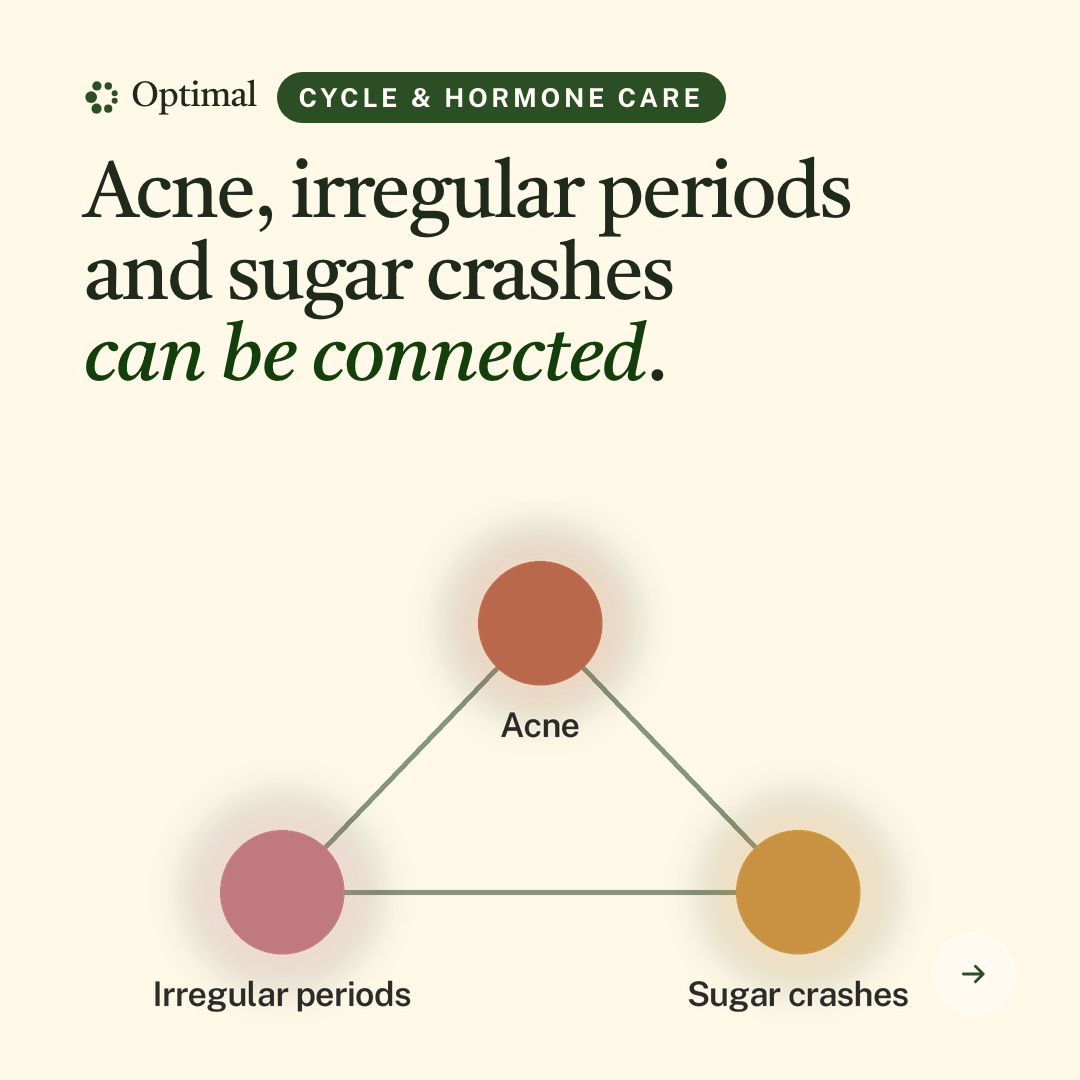
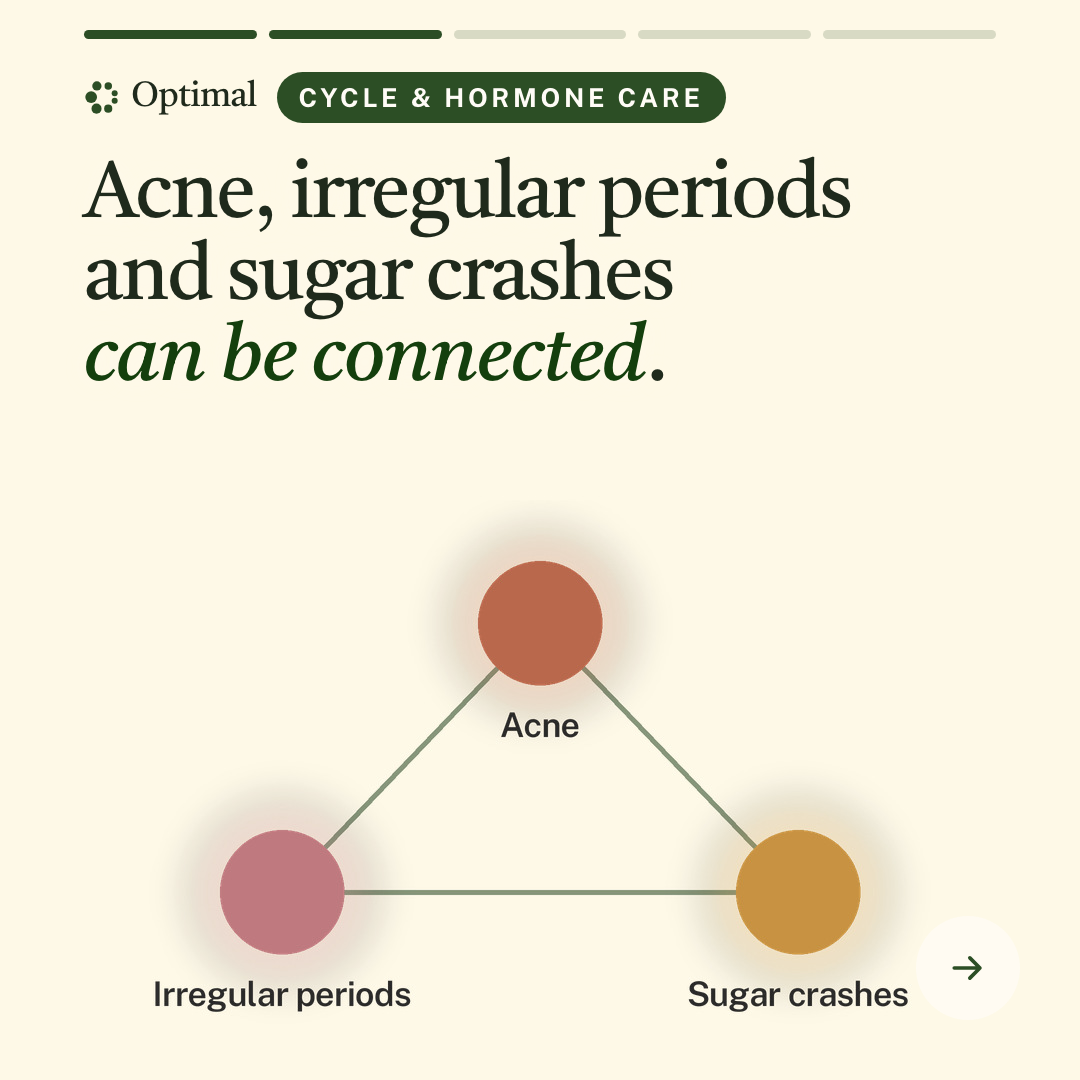
Hand-off site: ads updated Oct 22, 2026

Changed region(s): [[0.0917, 0.0306, 0.9167, 0.0611], [0.8861, 0.8861, 0.9167, 0.9167]]

diff --git a/index.html b/index.html
@@ -145,6 +145,11 @@
   .cards { display: grid; grid-template-columns: repeat(5, minmax(0, 1fr)); gap: 10px; margin: 12px 0 4px; }
   .cards img { width: 100%; aspect-ratio: 1 / 1; object-fit: cover; border-radius: 9px; border: 1px solid var(--line); display: block; }
   .cards figcaption { font-size: 12.5px; margin-top: 6px; color: var(--ink); }
+  .pill.fmt { background: var(--ink); color: var(--cream); }
+  .cards.seq figure { position: relative; margin: 0; }
+  .cards.seq figure:not(:last-child)::after { content: "→"; position: absolute; right: -9px; top: calc(50% - 40px); transform: translateX(50%);
+    width: 22px; height: 22px; border-radius: 50%; background: var(--ink); color: #fffcf7; font: 600 13px/22px "Public Sans", sans-serif; text-align: center; z-index: 2; }
+  .cards .cardno { display: block; font: 700 10.5px "Public Sans", sans-serif; letter-spacing: .08em; text-transform: uppercase; color: var(--muted, #76736D); margin-bottom: 2px; }
 
   /* how to launch */
   .howto details.box { background: var(--paper); border: 1px solid var(--line); border-radius: var(--r); padding: 16px 20px; margin-bottom: 10px; }
@@ -565,40 +570,40 @@ Book a free intro call with Cheryl, our care coordinator, to see if it&#x27;s a 
         <div class="twocol"><div class="field"><div class="flabel">Headline<button class="copy" data-copy="Cycle &amp; Hormone Care, now in Barrie">Copy</button></div><div class="val">Cycle &amp; Hormone Care, now in Barrie</div></div><div class="field"><div class="flabel">Description<button class="copy" data-copy="Free intro call · No referral">Copy</button></div><div class="val">Free intro call · No referral</div></div></div><div class="field"><div class="flabel">Alt headline<button class="copy" data-copy="Not just for menopause">Copy</button></div><div class="val">Not just for menopause</div></div>
       </div>
     </article>
-    <div class="group"><h3>Static ads</h3><span>Each single stands on its own: one sentence, one Hormozi lever. 1:1, 9:16 and 1.91:1. AI label on for CS3 and CS5 (engravings).</span></div>
+    <div class="group"><h3>Single-image ads: 4 separate ads</h3><span>Each one is its own ad and makes sense alone: one sentence, one Hormozi lever. Upload its 1:1, 9:16 and 1.91:1 files as one ad. AI label on for CS3 and CS5 (engravings).</span></div>
     <div class="grid">
       <article class="card tile isnew" id="CS3">
         <img src="static-ads/r9/thumbs/CS3.jpg" alt="CS3" loading="lazy">
-        <div class="tbody"><div><span class="pill hold">Waiting on the landing page</span> <span class="pill new">New</span></div><h4><span class="id">CS3</span>Painful, heavy or missing periods deserve a proper look.</h4><span class="when">Added <b>Oct 22</b></span>
+        <div class="tbody"><div><span class="pill fmt">Single image · its own ad</span> <span class="pill hold">Waiting on the landing page</span> <span class="pill new">New</span></div><h4><span class="id">CS3</span>Painful, heavy or missing periods deserve a proper look.</h4><span class="when">Added <b>Oct 22</b></span>
           <div class="dls"><a class="dl primary" href="static-ads/r9/CS3_1x1.png" download><span>1:1</span><em>621 KB</em></a><a class="dl" href="static-ads/r9/CS3_9x16.png" download><span>9:16</span><em>628 KB</em></a><a class="dl" href="static-ads/r9/CS3_1-91x1.png" download><span>1.91:1</span><em>834 KB</em></a></div>
           <details class="more"><summary>Ad copy</summary><div class="field"><div class="flabel">Primary text<button class="copy" data-copy="Painful, heavy or missing periods are common, but they deserve a proper look. Our nurse practitioner assesses pain, bleeding and iron, and arranges imaging or a referral when it&#x27;s needed. Start with the free 3-minute Cycle Check. No referral needed.">Copy</button></div><textarea readonly rows="4">Painful, heavy or missing periods are common, but they deserve a proper look. Our nurse practitioner assesses pain, bleeding and iron, and arranges imaging or a referral when it&#x27;s needed. Start with the free 3-minute Cycle Check. No referral needed.</textarea></div><div class="field"><div class="flabel">Headline<button class="copy" data-copy="Periods deserve a proper look">Copy</button></div><div class="val">Periods deserve a proper look</div></div><div class="field"><div class="flabel">Description<button class="copy" data-copy="Free 3-min Cycle Check · Barrie">Copy</button></div><div class="val">Free 3-min Cycle Check · Barrie</div></div></details>
         </div>
       </article>
       <article class="card tile isnew" id="CS4">
         <img src="static-ads/r9/thumbs/CS4.jpg" alt="CS4" loading="lazy">
-        <div class="tbody"><div><span class="pill hold">Waiting on the landing page</span> <span class="pill new">New</span></div><h4><span class="id">CS4</span>12 weeks to a plan you understand.</h4><span class="when">Added <b>Oct 22</b></span>
+        <div class="tbody"><div><span class="pill fmt">Single image · its own ad</span> <span class="pill hold">Waiting on the landing page</span> <span class="pill new">New</span></div><h4><span class="id">CS4</span>12 weeks to a plan you understand.</h4><span class="when">Added <b>Oct 22</b></span>
           <div class="dls"><a class="dl primary" href="static-ads/r9/CS4_1x1.png" download><span>1:1</span><em>219 KB</em></a><a class="dl" href="static-ads/r9/CS4_9x16.png" download><span>9:16</span><em>248 KB</em></a><a class="dl" href="static-ads/r9/CS4_1-91x1.png" download><span>1.91:1</span><em>217 KB</em></a></div>
           <details class="more"><summary>Ad copy</summary><div class="field"><div class="flabel">Primary text<button class="copy" data-copy="In 12 weeks, find out what&#x27;s driving cycle and hormone symptoms and leave with a plan you understand: a 60-minute nurse practitioner visit, bloodwork timed to your cycle, two InBody scans and two follow-ups. Start with the free 3-minute Cycle Check.">Copy</button></div><textarea readonly rows="4">In 12 weeks, find out what&#x27;s driving cycle and hormone symptoms and leave with a plan you understand: a 60-minute nurse practitioner visit, bloodwork timed to your cycle, two InBody scans and two follow-ups. Start with the free 3-minute Cycle Check.</textarea></div><div class="field"><div class="flabel">Headline<button class="copy" data-copy="12 weeks to a clear plan">Copy</button></div><div class="val">12 weeks to a clear plan</div></div><div class="field"><div class="flabel">Description<button class="copy" data-copy="NP-led · Barrie · No referral">Copy</button></div><div class="val">NP-led · Barrie · No referral</div></div></details>
         </div>
       </article>
       <article class="card tile isnew" id="CS5">
         <img src="static-ads/r9/thumbs/CS5.jpg" alt="CS5" loading="lazy">
-        <div class="tbody"><div><span class="pill hold">Waiting on the landing page</span> <span class="pill new">New</span></div><h4><span class="id">CS5</span>Bloodwork timed to your cycle, covered by OHIP.</h4><span class="when">Added <b>Oct 22</b></span>
+        <div class="tbody"><div><span class="pill fmt">Single image · its own ad</span> <span class="pill hold">Waiting on the landing page</span> <span class="pill new">New</span></div><h4><span class="id">CS5</span>Bloodwork timed to your cycle, covered by OHIP.</h4><span class="when">Added <b>Oct 22</b></span>
           <div class="dls"><a class="dl primary" href="static-ads/r9/CS5_1x1.png" download><span>1:1</span><em>678 KB</em></a><a class="dl" href="static-ads/r9/CS5_9x16.png" download><span>9:16</span><em>678 KB</em></a><a class="dl" href="static-ads/r9/CS5_1-91x1.png" download><span>1.91:1</span><em>952 KB</em></a></div>
           <details class="more"><summary>Ad copy</summary><div class="field"><div class="flabel">Primary text<button class="copy" data-copy="Some hormone tests only make sense on certain days of the cycle, so we time the bloodwork to it. OHIP covers the bloodwork, and our nurse practitioner walks through every result with you in a 60-minute visit. Start with the free 3-minute Cycle Check.">Copy</button></div><textarea readonly rows="4">Some hormone tests only make sense on certain days of the cycle, so we time the bloodwork to it. OHIP covers the bloodwork, and our nurse practitioner walks through every result with you in a 60-minute visit. Start with the free 3-minute Cycle Check.</textarea></div><div class="field"><div class="flabel">Headline<button class="copy" data-copy="Bloodwork timed to your cycle">Copy</button></div><div class="val">Bloodwork timed to your cycle</div></div><div class="field"><div class="flabel">Description<button class="copy" data-copy="OHIP-covered · NP-reviewed · Barrie">Copy</button></div><div class="val">OHIP-covered · NP-reviewed · Barrie</div></div></details>
         </div>
       </article>
       <article class="card tile isnew" id="CS6">
         <img src="static-ads/r9/thumbs/CS6.jpg" alt="CS6" loading="lazy">
-        <div class="tbody"><div><span class="pill hold">Waiting on the landing page</span> <span class="pill new">New</span></div><h4><span class="id">CS6</span>Nurse practitioner care for PCOS, PMDD and endometriosis, no referral needed.</h4><span class="when">Added <b>Oct 22</b></span>
+        <div class="tbody"><div><span class="pill fmt">Single image · its own ad</span> <span class="pill hold">Waiting on the landing page</span> <span class="pill new">New</span></div><h4><span class="id">CS6</span>Nurse practitioner care for PCOS, PMDD and endometriosis, no referral needed.</h4><span class="when">Added <b>Oct 22</b></span>
           <div class="dls"><a class="dl primary" href="static-ads/r9/CS6_1x1.png" download><span>1:1</span><em>756 KB</em></a><a class="dl" href="static-ads/r9/CS6_9x16.png" download><span>9:16</span><em>1 MB</em></a><a class="dl" href="static-ads/r9/CS6_1-91x1.png" download><span>1.91:1</span><em>1 MB</em></a></div>
           <details class="more"><summary>Ad copy</summary><div class="field"><div class="flabel">Primary text<button class="copy" data-copy="Cycle &amp; Hormone Care in Barrie for PCOS/PMOS, PMS/PMDD, endometriosis and adenomyosis, irregular periods, and hormonal acne or hair changes. The same nurse practitioner every visit. No referral needed. Start with the free 3-minute Cycle Check.">Copy</button></div><textarea readonly rows="4">Cycle &amp; Hormone Care in Barrie for PCOS/PMOS, PMS/PMDD, endometriosis and adenomyosis, irregular periods, and hormonal acne or hair changes. The same nurse practitioner every visit. No referral needed. Start with the free 3-minute Cycle Check.</textarea></div><div class="field"><div class="flabel">Headline<button class="copy" data-copy="No referral needed">Copy</button></div><div class="val">No referral needed</div></div><div class="field"><div class="flabel">Description<button class="copy" data-copy="PCOS · PMDD · Endometriosis · Barrie">Copy</button></div><div class="val">PCOS · PMDD · Endometriosis · Barrie</div></div></details>
         </div>
       </article></div>
     
-    <div class="group"><h3>Carousel</h3><span>Five 1:1 cards, uploaded as ONE carousel ad, in this order. Use each card's headline; the primary text is shared.</span></div>
-    <article class="card carousel" id="CC"><span class="pill hold">Waiting on the landing page</span> <span class="pill new">New</span><h3 style="margin-top:6px"><span class="id">CC1–CC5</span>Cycle &amp; Hormone Care carousel</h3><span class="when">Added <b>Oct 22</b></span>
-      <div class="cards"><figure><img src="static-ads/r9/thumbs/CC1.jpg" alt="CC1" loading="lazy"><figcaption><b>CC1</b> · Common isn&#x27;t the same as normal<div class="dls"><a class="dl primary" href="static-ads/r9/CC1_card1_1x1.png" download><span>Card</span><em>1 MB</em></a></div></figcaption></figure><figure><img src="static-ads/r9/thumbs/CC2.jpg" alt="CC2" loading="lazy"><figcaption><b>CC2</b> · Symptoms can share a cause<div class="dls"><a class="dl primary" href="static-ads/r9/CC2_card2_1x1.png" download><span>Card</span><em>251 KB</em></a></div></figcaption></figure><figure><img src="static-ads/r9/thumbs/CC3.jpg" alt="CC3" loading="lazy"><figcaption><b>CC3</b> · Bloodwork timed to your cycle<div class="dls"><a class="dl primary" href="static-ads/r9/CC3_card3_1x1.png" download><span>Card</span><em>686 KB</em></a></div></figcaption></figure><figure><img src="static-ads/r9/thumbs/CC4.jpg" alt="CC4" loading="lazy"><figcaption><b>CC4</b> · 12 weeks to a clear plan<div class="dls"><a class="dl primary" href="static-ads/r9/CC4_card4_1x1.png" download><span>Card</span><em>220 KB</em></a></div></figcaption></figure><figure><img src="static-ads/r9/thumbs/CC5.jpg" alt="CC5" loading="lazy"><figcaption><b>CC5</b> · Take the free 3-min Cycle Check<div class="dls"><a class="dl primary" href="static-ads/r9/CC5_card5_1x1.png" download><span>Card</span><em>934 KB</em></a></div></figcaption></figure></div><div class="field"><div class="flabel">Primary text<button class="copy" data-copy="“It&#x27;s just part of being a woman.” Not always. Painful, heavy or irregular periods, acne, sugar crashes and mood that crashes before a period can be connected, and they deserve a proper look. Swipe to see how Optimal&#x27;s Cycle &amp; Hormone Care program in Barrie works, then start with the free 3-minute Cycle Check. No referral needed.">Copy</button></div><textarea readonly rows="3">“It&#x27;s just part of being a woman.” Not always. Painful, heavy or irregular periods, acne, sugar crashes and mood that crashes before a period can be connected, and they deserve a proper look. Swipe to see how Optimal&#x27;s Cycle &amp; Hormone Care program in Barrie works, then start with the free 3-minute Cycle Check. No referral needed.</textarea></div></article>
+    <div class="group"><h3>Carousel ad: 1 ad, 5 cards</h3><span>These five are NOT separate ads. In Ads Manager pick the <b>Carousel</b> format and add the cards in this order (1 → 5), each with its card headline. The primary text is shared. Every card shows a Stories-style progress bar, and card 1 says "Swipe".</span></div>
+    <article class="card carousel" id="CC"><span class="pill fmt">Carousel · 1 ad · 5 cards</span> <span class="pill hold">Waiting on the landing page</span> <span class="pill new">New</span><h3 style="margin-top:6px"><span class="id">CC1–CC5</span>Cycle &amp; Hormone Care carousel</h3><span class="when">Added <b>Oct 22</b></span>
+      <div class="cards seq"><figure><img src="static-ads/r9/thumbs/CC1.jpg" alt="CC1" loading="lazy"><figcaption><span class="cardno">Card 1 of 5</span><b>CC1</b> · Common isn&#x27;t the same as normal<div class="dls"><a class="dl primary" href="static-ads/r9/CC1_card1_1x1.png" download><span>Card</span><em>1 MB</em></a></div></figcaption></figure><figure><img src="static-ads/r9/thumbs/CC2.jpg" alt="CC2" loading="lazy"><figcaption><span class="cardno">Card 2 of 5</span><b>CC2</b> · Symptoms can share a cause<div class="dls"><a class="dl primary" href="static-ads/r9/CC2_card2_1x1.png" download><span>Card</span><em>252 KB</em></a></div></figcaption></figure><figure><img src="static-ads/r9/thumbs/CC3.jpg" alt="CC3" loading="lazy"><figcaption><span class="cardno">Card 3 of 5</span><b>CC3</b> · Bloodwork timed to your cycle<div class="dls"><a class="dl primary" href="static-ads/r9/CC3_card3_1x1.png" download><span>Card</span><em>687 KB</em></a></div></figcaption></figure><figure><img src="static-ads/r9/thumbs/CC4.jpg" alt="CC4" loading="lazy"><figcaption><span class="cardno">Card 4 of 5</span><b>CC4</b> · 12 weeks to a clear plan<div class="dls"><a class="dl primary" href="static-ads/r9/CC4_card4_1x1.png" download><span>Card</span><em>221 KB</em></a></div></figcaption></figure><figure><img src="static-ads/r9/thumbs/CC5.jpg" alt="CC5" loading="lazy"><figcaption><span class="cardno">Card 5 of 5</span><b>CC5</b> · Take the free 3-min Cycle Check<div class="dls"><a class="dl primary" href="static-ads/r9/CC5_card5_1x1.png" download><span>Card</span><em>928 KB</em></a></div></figcaption></figure></div><div class="field"><div class="flabel">Primary text (shared by all 5 cards)<button class="copy" data-copy="“It&#x27;s just part of being a woman.” Not always. Painful, heavy or irregular periods, acne, sugar crashes and mood that crashes before a period can be connected, and they deserve a proper look. Swipe to see how Optimal&#x27;s Cycle &amp; Hormone Care program in Barrie works, then start with the free 3-minute Cycle Check. No referral needed.">Copy</button></div><textarea readonly rows="3">“It&#x27;s just part of being a woman.” Not always. Painful, heavy or irregular periods, acne, sugar crashes and mood that crashes before a period can be connected, and they deserve a proper look. Swipe to see how Optimal&#x27;s Cycle &amp; Hormone Care program in Barrie works, then start with the free 3-minute Cycle Check. No referral needed.</textarea></div></article>
     <div class="group"><h3>Google Ads (Search)</h3><span>Campaign <code>CHC · Cycle &amp; Hormone Care · Barrie · Search</code>: four ad groups, one RSA each. Full build sheet with settings, sitelinks, callouts and negatives: <a href="files/GOOGLE-ADS-CYCLE.md" target="_blank" rel="noopener">GOOGLE-ADS-CYCLE.md</a>.</span></div>
     <div class="grid">
       <article class="card tile isnew" id="CG1">

diff --git a/template.html b/template.html
@@ -145,6 +145,11 @@
   .cards { display: grid; grid-template-columns: repeat(5, minmax(0, 1fr)); gap: 10px; margin: 12px 0 4px; }
   .cards img { width: 100%; aspect-ratio: 1 / 1; object-fit: cover; border-radius: 9px; border: 1px solid var(--line); display: block; }
   .cards figcaption { font-size: 12.5px; margin-top: 6px; color: var(--ink); }
+  .pill.fmt { background: var(--ink); color: var(--cream); }
+  .cards.seq figure { position: relative; margin: 0; }
+  .cards.seq figure:not(:last-child)::after { content: "→"; position: absolute; right: -9px; top: calc(50% - 40px); transform: translateX(50%);
+    width: 22px; height: 22px; border-radius: 50%; background: var(--ink); color: #fffcf7; font: 600 13px/22px "Public Sans", sans-serif; text-align: center; z-index: 2; }
+  .cards .cardno { display: block; font: 700 10.5px "Public Sans", sans-serif; letter-spacing: .08em; text-transform: uppercase; color: var(--muted, #76736D); margin-bottom: 2px; }
 
   /* how to launch */
   .howto details.box { background: var(--paper); border: 1px solid var(--line); border-radius: var(--r); padding: 16px 20px; margin-bottom: 10px; }
@@ -246,7 +251,7 @@
     <div class="setup">{{CYCLE_SETUP}}</div>
     <div class="group"><h3>Video ads</h3><span>9:16, 1:1 and 1.91:1 per ad. Each opens with the CYCLE &amp; HORMONE CARE badge.</span></div>
     {{CYCLE_VIDEOS}}
-    <div class="group"><h3>Static ads</h3><span>Each single stands on its own: one sentence, one Hormozi lever. 1:1, 9:16 and 1.91:1. AI label on for CS3 and CS5 (engravings).</span></div>
+    <div class="group"><h3>Single-image ads: 4 separate ads</h3><span>Each one is its own ad and makes sense alone: one sentence, one Hormozi lever. Upload its 1:1, 9:16 and 1.91:1 files as one ad. AI label on for CS3 and CS5 (engravings).</span></div>
     <div class="grid">{{CYCLE_STATICS}}</div>
     {{CYCLE_CAROUSEL}}
     <div class="group"><h3>Google Ads (Search)</h3><span>Campaign <code>CHC · Cycle &amp; Hormone Care · Barrie · Search</code>: four ad groups, one RSA each. Full build sheet with settings, sitelinks, callouts and negatives: <a href="files/GOOGLE-ADS-CYCLE.md" target="_blank" rel="noopener">GOOGLE-ADS-CYCLE.md</a>.</span></div>

diff --git a/build.py b/build.py
@@ -520,7 +520,7 @@ def build():
     </article>''')
 
     # ---------------- static ads
-    def static_tile(ad, title, primary, headline, description, imgs, round_key, extra="", svc=None):
+    def static_tile(ad, title, primary, headline, description, imgs, round_key, extra="", svc=None, fmt=""):
         files = []
         for label, src in imgs:
             rel = put(src, f"static-ads/{round_key}/{os.path.basename(src)}")
@@ -534,7 +534,7 @@ def build():
         return f'''
       <article class="card tile{" isnew" if isnew else ""}" id="{ad}">
         <img src="{th}" alt="{esc(ad)}" loading="lazy">
-        <div class="tbody"><div>{status(ad)} {newpill}</div><h4><span class="id">{ad}</span>{esc(title)}</h4>{whenline}
+        <div class="tbody"><div>{f'<span class="pill fmt">{esc(fmt)}</span> ' if fmt else ""}{status(ad)} {newpill}</div><h4><span class="id">{ad}</span>{esc(title)}</h4>{whenline}
           <div class="dls">{"".join(files)}</div>
           <details class="more"><summary>Ad copy</summary>{copy_field("Primary text", primary, 4)}{copy_field("Headline", headline)}{desc}{extra}</details>
         </div>
@@ -623,7 +623,7 @@ def build():
     cdir = os.path.join(sdir, "r9", "cycle")
     cyc = cycle_copy()
     cycle_statics = [static_tile(ad, cyc[ad]["title"], cyc[ad]["primary"], cyc[ad]["headline"], cyc[ad]["description"],
-                                 simgs(cdir, ad), "r9", svc="cycle") for ad in sorted(cyc)]
+                                 simgs(cdir, ad), "r9", svc="cycle", fmt="Single image · its own ad") for ad in sorted(cyc)]
     cc = cycle_carousel()
     cards = []
     for i, (cid, onimg, chead) in enumerate(cc["cards"], 1):
@@ -631,14 +631,14 @@ def build():
         rel = put(src, f"static-ads/r9/{os.path.basename(src)}")
         zips["r9"].append((src, f"CC carousel/{os.path.basename(src)}"))
         th = thumb(src, f"static-ads/r9/thumbs/{cid}.jpg", 360)
-        cards.append(f'<figure><img src="{th}" alt="{cid}" loading="lazy"><figcaption><b>{cid}</b> · {esc(chead)}'
-                     f'<div class="dls">{dl(rel, "Card", mb(src), True)}</div></figcaption></figure>')
+        cards.append(f'<figure><img src="{th}" alt="{cid}" loading="lazy"><figcaption><span class="cardno">Card {i} of {len(cc["cards"])}</span>'
+                     f'<b>{cid}</b> · {esc(chead)}<div class="dls">{dl(rel, "Card", mb(src), True)}</div></figcaption></figure>')
     isnew, newpill, whenline = when("CC")
     n["cycle"] += 1
     cycle_carousel_html = f'''
-    <div class="group"><h3>Carousel</h3><span>Five 1:1 cards, uploaded as ONE carousel ad, in this order. Use each card's headline; the primary text is shared.</span></div>
-    <article class="card carousel" id="CC">{status("CC")} {newpill}<h3 style="margin-top:6px"><span class="id">CC1–CC5</span>Cycle &amp; Hormone Care carousel</h3>{whenline}
-      <div class="cards">{"".join(cards)}</div>{copy_field("Primary text", cc["primary"], 3)}</article>'''
+    <div class="group"><h3>Carousel ad: 1 ad, 5 cards</h3><span>These five are NOT separate ads. In Ads Manager pick the <b>Carousel</b> format and add the cards in this order (1 → 5), each with its card headline. The primary text is shared. Every card shows a Stories-style progress bar, and card 1 says "Swipe".</span></div>
+    <article class="card carousel" id="CC"><span class="pill fmt">Carousel · 1 ad · 5 cards</span> {status("CC")} {newpill}<h3 style="margin-top:6px"><span class="id">CC1–CC5</span>Cycle &amp; Hormone Care carousel</h3>{whenline}
+      <div class="cards seq">{"".join(cards)}</div>{copy_field("Primary text (shared by all 5 cards)", cc["primary"], 3)}</article>'''
     cycle_google = []
     for gid, title, kws, hs, ds, pin in google_groups():
         isnew, newpill, whenline = when(gid)
